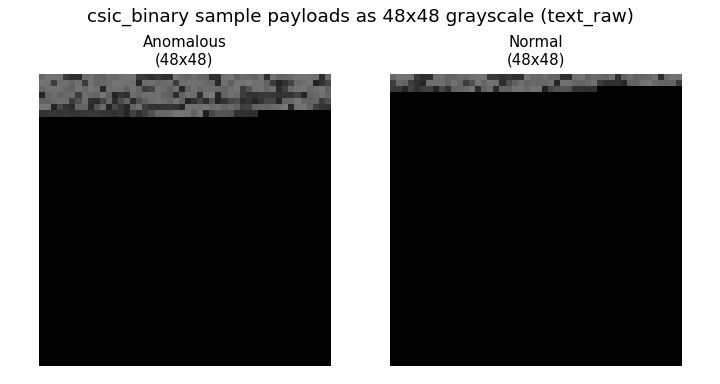
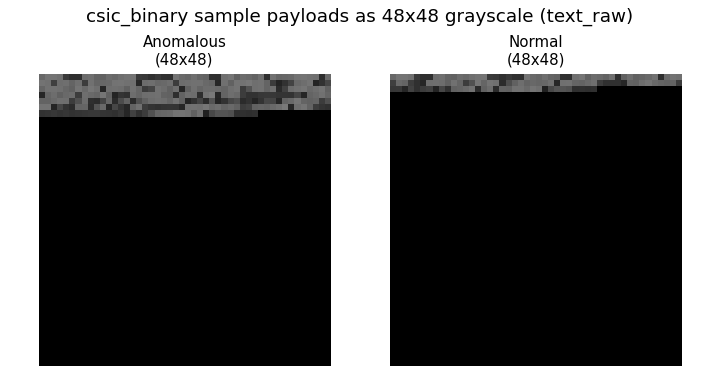
chore(data): CSIC 2010 실제 데이터 반영 + 전처리 파이프라인 전체 재실행
- data/raw/csic2010/csic_database.csv (61,065행) 반영, DATA_MANIFEST 검증 결과 갱신
- preprocess.py 두 트랙 재실행: payload_4class(199,793) / csic_binary(13,498, URL 기준 중복 77.9% 제거)
- build_image_dataset.py 두 트랙 재실행: 48x48 그레이스케일 .npz 6개 + 샘플 그림 갱신
- (데이터/이미지 산출물은 .gitignore 대상, 재현은 스크립트+seed=42 로 보장)

Changed region(s): [[0.1222, 0.0, 0.8861, 0.0625]]

diff --git a/docs/DATA_MANIFEST.md b/docs/DATA_MANIFEST.md
@@ -74,6 +74,8 @@
 
 ---
 
+---
+
 # 자동 검증 결과 (validate.py)
 
 ## csic_database.csv
